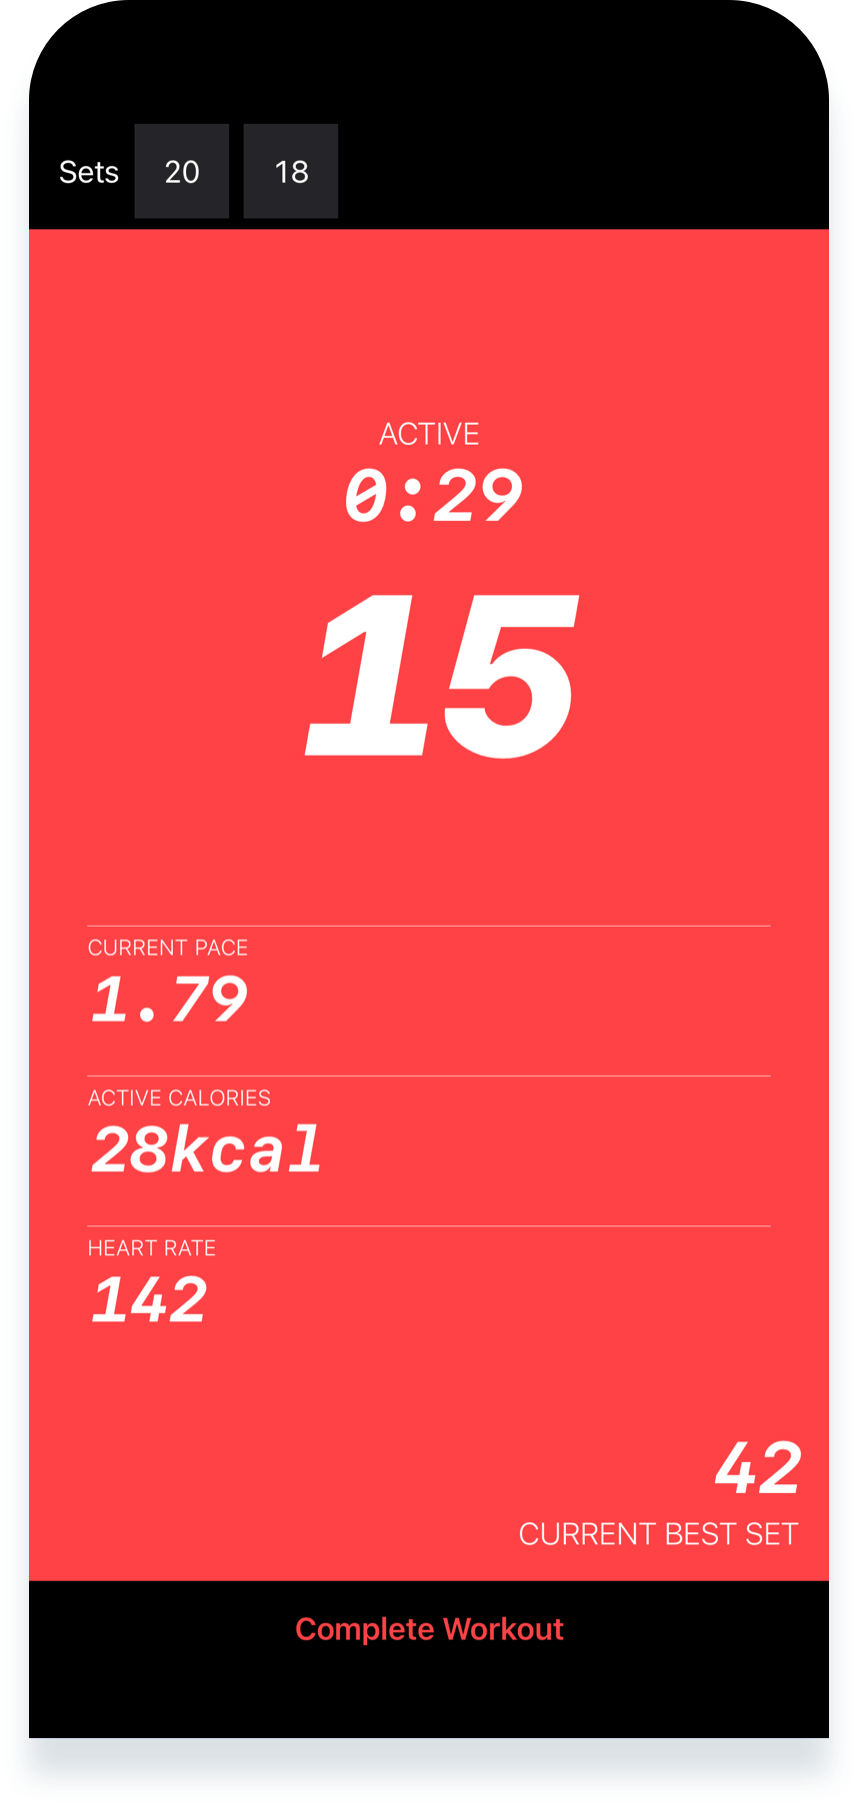
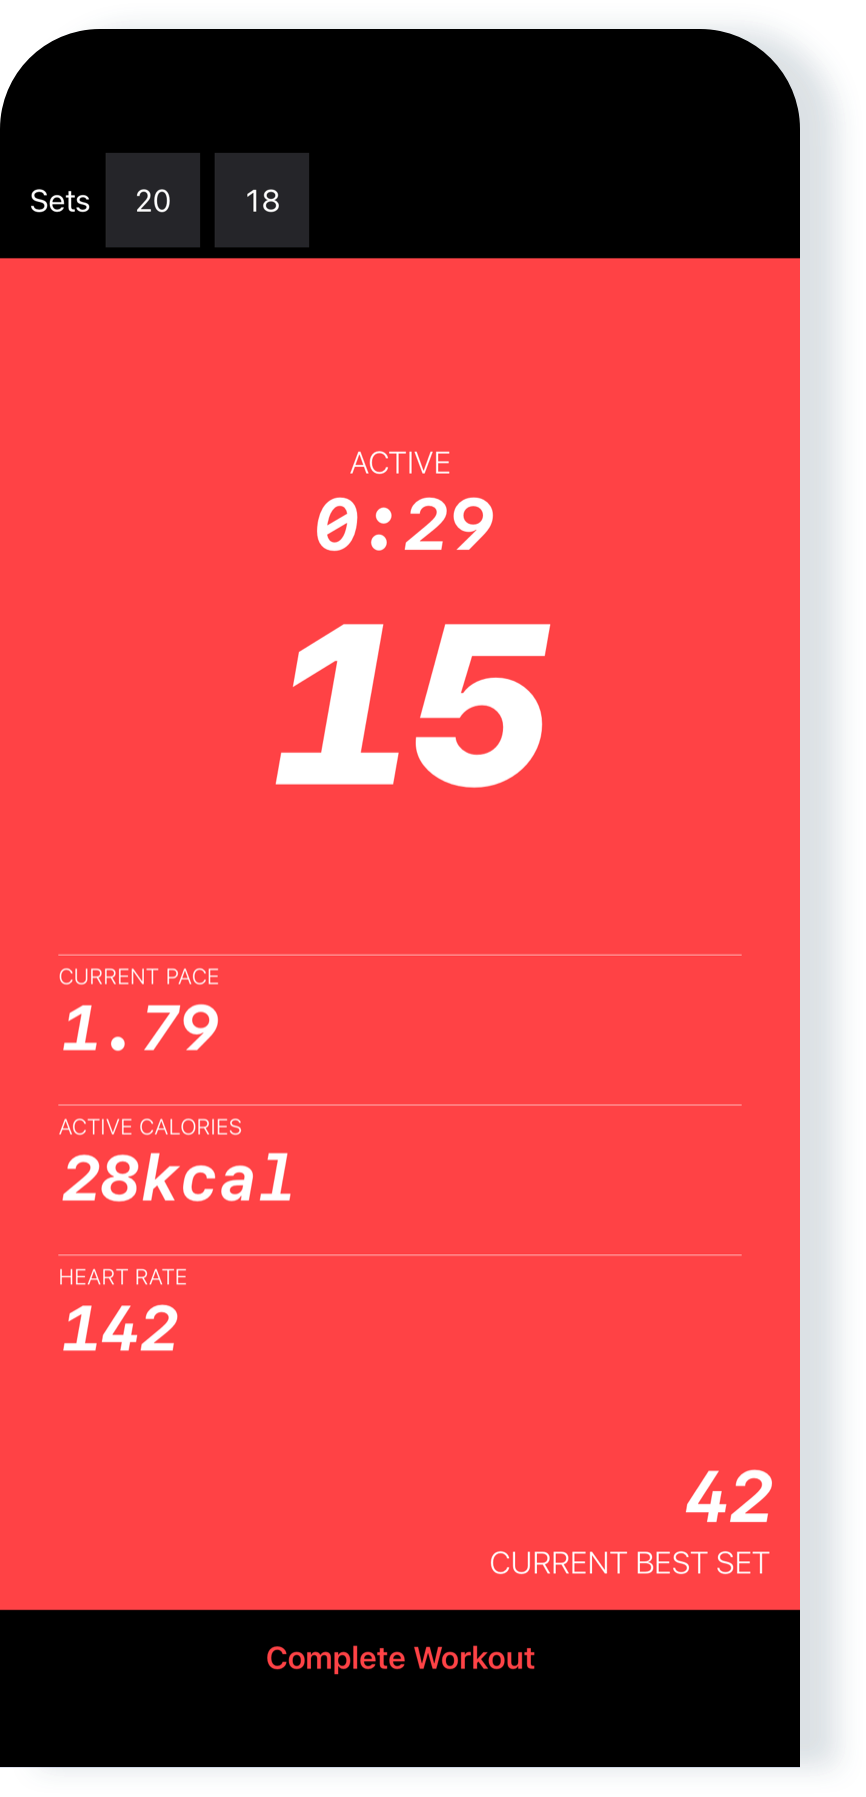
Fix layout.

Changed region(s): [[0.0, 0.0, 0.9697, 0.9972], [0.303, 0.2181, 0.6667, 0.4363]]

diff --git a/site/ru/index.html b/site/ru/index.html
@@ -81,8 +81,8 @@
         <p><small>Можно начать бесплатно. Без аккаунта. Без рекламы.</small></p>
       </div>
       
-      <figure style="--shot-scale: 1.0725">
-        <img src="../images/screenshots/ru/iphone-home.webp" alt="iPhone с открытым приложением Pushanova" width="858" height="1805">
+      <figure style="--shot-scale: 1.0825">
+        <img src="../images/screenshots/ru/iphone-home.webp" alt="iPhone с открытым приложением Pushanova" width="866" height="1797">
       </figure>
       
     </header>

diff --git a/site/styles/site.css b/site/styles/site.css
@@ -159,6 +159,7 @@ main > header.hero {
   position: relative;
   isolation: isolate;
   align-items: center;
+  overflow: clip;
   padding-block-end: 0;
   color: #f5f5f7;
   background-color: #1d1d1f;
@@ -192,6 +193,8 @@ main > header.hero > figure {
 main > header.hero > figure img {
   border-start-start-radius: 1.75rem;
   border-start-end-radius: 1.75rem;
+  /* The file has a transparent strip under the screen. Shift it down and clip it at the hero edge. */
+  transform: translateY(1.67%);
 }
 
 main > :is(header + section, .image-leading):has(> figure) {

diff --git a/src/styles/site.css b/src/styles/site.css
@@ -159,6 +159,7 @@ main > header.hero {
   position: relative;
   isolation: isolate;
   align-items: center;
+  overflow: clip;
   padding-block-end: 0;
   color: #f5f5f7;
   background-color: #1d1d1f;
@@ -192,6 +193,8 @@ main > header.hero > figure {
 main > header.hero > figure img {
   border-start-start-radius: 1.75rem;
   border-start-end-radius: 1.75rem;
+  /* The file has a transparent strip under the screen. Shift it down and clip it at the hero edge. */
+  transform: translateY(1.67%);
 }
 
 main > :is(header + section, .image-leading):has(> figure) {

diff --git a/site/index.html b/site/index.html
@@ -81,8 +81,8 @@
         <p><small>Free to start. No account. No ads.</small></p>
       </div>
       
-      <figure style="--shot-scale: 1.0725">
-        <img src="images/screenshots/en/iphone-home.webp" alt="iPhone showing the Pushanova app" width="858" height="1805">
+      <figure style="--shot-scale: 1.0825">
+        <img src="images/screenshots/en/iphone-home.webp" alt="iPhone showing the Pushanova app" width="866" height="1797">
       </figure>
       
     </header>
